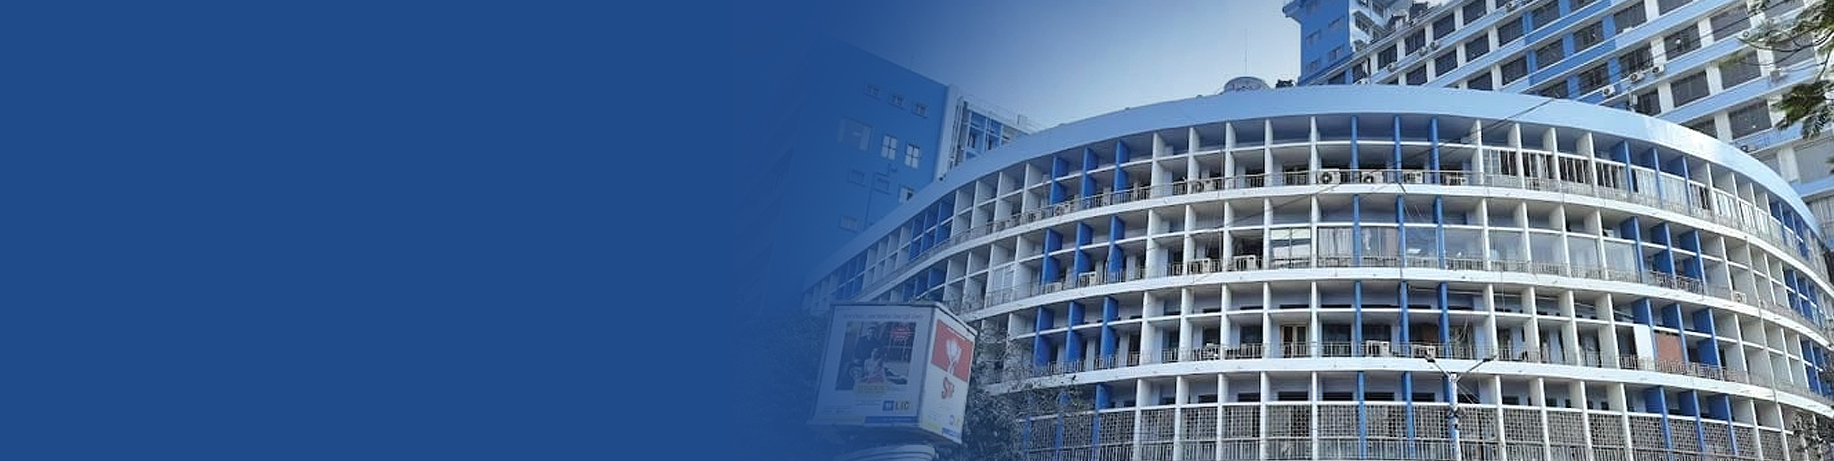
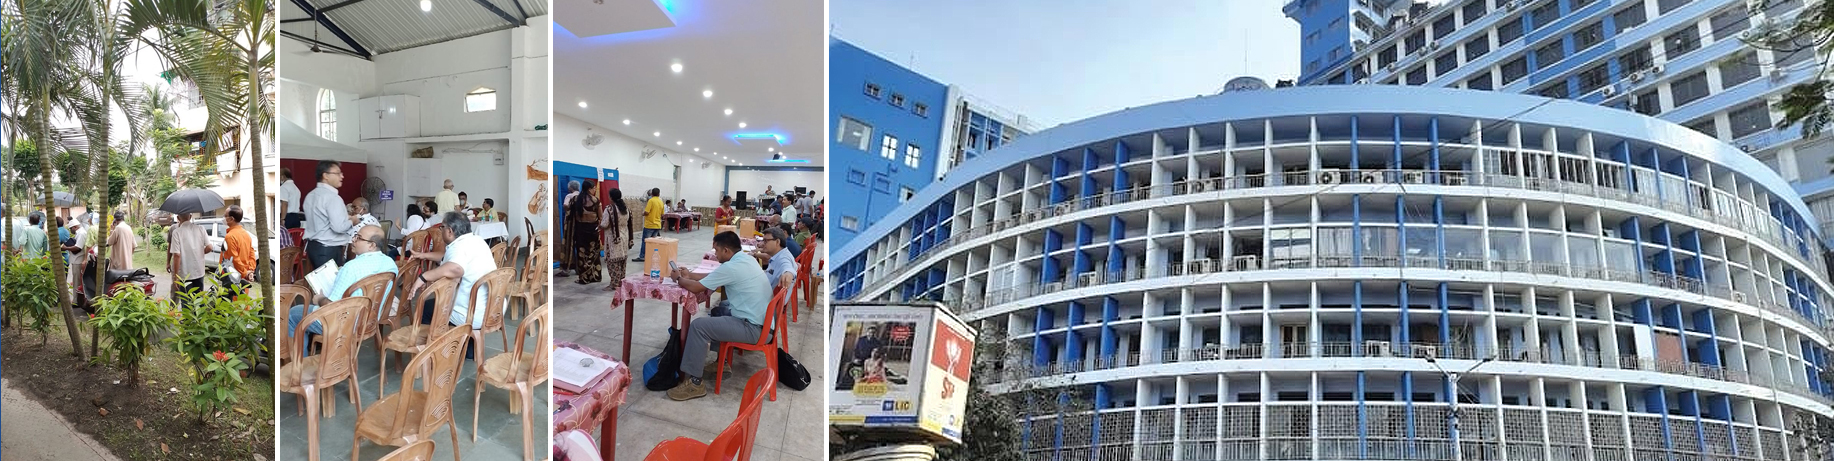
11052026-------

diff --git a/src/Assets/css/apps.css b/src/Assets/css/apps.css
@@ -185,7 +185,8 @@ width: 100%; padding:0;}
 
 
 .bannerSliderMain{width:100%; margin:0; 
-  position:relative; min-height: 500px;
+  position:relative; 
+  /* min-height: 500px; */
   /* background: #d9c8b8 url("../images/banner_main.png") no-repeat right top; display: inline-block; */
   /* background: #d9c8b8 url("../images/banner_img_2.jpg") no-repeat right top; background-size: cover;  */
   display: inline-block;
@@ -199,19 +200,23 @@ width: 100%; padding:0;}
   color: #000; display: none;}
   .left_search_sec.active{background: none;}
 
-.search_box{background: #1F4B8A; padding:20px 0 20px 0; border-radius: 20px; width: 100%; border: #fff solid 3px; display: inline-block;
+.search_box{background: #3D73C1; padding:20px 0 20px 0; border-radius: 20px; width: 100%; border: #fff solid 3px; display: inline-block;
   z-index: 999; position: relative;}
 
-.search_box h2 {font-size: 24px; color: #fff; font-weight: 100; padding-bottom: 8px; border-bottom: #17b0fd solid 1px; position: relative;
+.search_box .search_title{padding: 0 15px; width: 100%;}
+
+.search_box .search_body_sec{padding:0; width: 100%;}
+
+.search_box h2 {font-size: 24px; color: #fff; font-weight: 100; padding-bottom: 8px; border-bottom: #fff solid 1px; position: relative;
 	margin-bottom: 22px;}
-.search_box h2:after {content: ""; width: 33px; height: 3px; background: #17b0fd; position: absolute; right: 0; bottom: 0;}
+.search_box h2:after {content: ""; width: 33px; height: 3px; background: #fff; position: absolute; right: 0; bottom: 0;}
 
 .search_box label{width: 23%;
   display: inline-block; float: left;
   margin-bottom: 0;
   position: relative;
   padding: 0 15px;}
-.search_box label.range_dropdown_cu{width: 100%; display: block; margin-bottom: 25px; position: relative;}
+.search_box label.range_dropdown_cu{width: 23%; display: inline-block; margin-bottom: 0; position: relative;}
 .search_box label.range_dropdown_cu > div.ant-flex{position: absolute;
   right: 26px;
   top: 15px;}
@@ -221,9 +226,10 @@ width: 100%; padding:0;}
 .search_box label .required{color: red;
   font-size: 11px;
   position: absolute;
-  left: 0;
-  top: -22px;
+  left: 15px;
+  top: -19px;
   font-weight: 700;}
+  
 .search_box label.btn{width: 100%; display: block; margin-bottom: 0; padding: 0;}
 .search_box label select{background: #fff;
   font-size: 13px;
@@ -232,20 +238,20 @@ width: 100%; padding:0;}
   padding: 10px 12px;
   width: 100%;
   border-radius: 5px;}
-.search_box label input[type="text"]{background: #fff; font-size: 13px; color: #343535; border: none; padding: 10px 12px; width: 100%; border-radius: 5px;}
+.search_box label input[type="text"]{background: #fff; font-size: 13px; color: #343535; border: none; padding: 9px 12px; width: 100%; border-radius: 5px;}
 .search_box label.searchSec{width: 15%; float: left; padding-right: 10px; margin-bottom: 0;}
-.search_box label.resetSec{width: 15%; float: left; padding-left: 10px; margin-bottom: 0;}
+.search_box label.resetSec{width: 15%; float: left; padding-left: 10px; margin-bottom: 0; padding-right: 0;}
 
 .right_sec .search_box label.searchSec {
-  width: 50%;
+  width: 50% !important;
   float: left;
-  padding-right: 10px; padding-bottom: 0 !important; margin-bottom: 0 !important;
+  padding: 0 15px; padding-bottom: 0 !important; margin-bottom: 0 !important;
 }
 
 .right_sec .search_box label.resetSec {
-  width: 50%;
+  width: 50% !important;
   float: left;
-  padding-left: 10px; padding-bottom: 0 !important; margin-bottom: 0 !important;
+  padding: 0 15px; padding-bottom: 0 !important; margin-bottom: 0 !important;
 }
 
 .right_sec .search_box label.searchSec button[type="submit"] {
@@ -278,7 +284,7 @@ width: 100%; padding:0;}
   font-weight: 700;
   border-radius: 5px;}
 
-.search_box label.resetSec button[type="reset"]{font-size: 16px; color: #fff; background:#cc962f; border: none; padding: 8px 40px; width: 100%;
+.search_box label.resetSec button[type="reset"]{font-size: 16px; color: #fff; background:#0a2746; border: none; padding: 8px 40px; width: 100%;
     font-weight: 700; border-radius: 5px;}
 
 .slider_sec{
@@ -306,19 +312,24 @@ width: 100%; padding:0;}
 .slider_sec_sub h2 span{color: #382616; display: block;}
 .slider_sec_sub p{color: #565656; max-width: 605px;}
 
-.bannerSliderOverlay{position: absolute;
+.bannerSliderOverlay{
+  /* position: absolute; */
   /* height: 461px; */
   left: 0;
   width: 100%;
   top: -1px;}
 
-.bannerSliderMain .bannerSlide_Common{min-height: 510px; width: 100%;}
+.bannerSliderMain .bannerSlide_Common{
+  /* min-height: 510px;  */
+  width: 100%;}
+.bannerSliderMain .bannerSlide_Common img{width: 100% !important;}
+
 .bannerSliderMain .bannerSlide{
-  background: #d9c8b8 url("../images/banner_img_1.jpg") no-repeat right top; background-size: cover;
+  /* background: #d9c8b8 url("../images/banner_img_1.jpg") no-repeat right top; background-size: cover; */
 }
 
 .bannerSliderMain .bannerSlide2{
-  background: #d9c8b8 url("../images/banner_img_2.jpg") no-repeat right top; background-size: cover;
+  /* background: #d9c8b8 url("../images/banner_img_2.jpg") no-repeat right top; background-size: cover; */
 }
 
 .bannerSliderMain .slick-prev.slick-arrow {
@@ -886,13 +897,17 @@ button.viewDetails:focus{outline: none; border: none;}
 
 
 
-.right_sec .search_box{background: #01131f; padding:20px 15px 30px 15px; border-radius: 0; width: 100%; border:none; margin-bottom:16px;}
+.right_sec .search_box{background: #01131f; padding:20px 0 30px 0; border-radius: 0; width: 100%; border:none; margin-bottom:16px;}
 
 .right_sec .search_box h2 {font-size: 24px; color: #fff; font-weight: 100; padding-bottom: 8px; border-bottom: #17b0fd solid 1px; position: relative;
 	margin-bottom: 22px;}
 .right_sec .search_box h2:after {content: ""; width: 33px; height: 3px; background: #17b0fd; position: absolute; right: 0; bottom: 0;}
 
-.right_sec .search_box label{width: 100%; display: block; margin-bottom: 22px;}
+.right_sec .search_box label{width: auto; display: block; margin-bottom: 22px;}
+
+.right_sec .search_box .search_body_sec label{width: 100%; display: block; margin-bottom: 22px;}
+
+
 .right_sec .search_box label.btn{width: 100%; display: block; margin-bottom: 0; padding: 0;}
 .right_sec .search_box label select{background: #fff; font-size: 13px; color: #343535; border: none; padding:13px 12px; width: 100%;}
 .right_sec .search_box label input[type="text"]{background: #fff; font-size: 13px; color: #343535; border: none; padding:13px 12px; width: 100%;}
@@ -1262,25 +1277,31 @@ border-radius: 6px;}
   padding-bottom: 5px;
   border-bottom: #17b0fd solid 1px;
   position: relative;
-  margin: 0 15px 18px 15px;
+  margin: 0 0 18px 0;
 }
 
-.searchPageTop .search_box form{display: flex;
+.searchPageTop .search_box form .search_body_sec{display: flex;
   align-items: center;
 }
 
-.searchPageTop .search_box label{width: 18%;
-  float: left;
-  margin: 0 1%;}
+.searchPageTop .search_box .search_body_sec label{width: 23%;
+  margin: 0;
+  padding: 0 15px;}
 
-.searchPageTop .search_box .radio_button_ranDis{width: 18%;
-  float: left;
-  margin: 0 1%; color: #000;}
-.searchPageTop .search_box .radio_button_ranDis label{width: 50%; display: flex;}
+.searchPageTop .search_box .radio_button_ranDis{
+  width:auto;
+  /* float: left; */
+  margin:0; color: #000;}
+.searchPageTop .search_box .radio_button_ranDis label{width: auto; display: flex;}
 
 
-.searchPageTop .search_box label.searchSec{margin:0 1% 0 0; padding: 0; width: 10%;}
-.searchPageTop .search_box label.resetSec{margin: 0 1% 0 0; padding: 0; width: 10%;}
+.searchPageTop .search_box label.searchSec{margin: 0;
+  padding-right: 10px;
+  width: 15%;}
+.searchPageTop .search_box label.resetSec{margin: 0;
+  padding-left: 10px;
+  width: 15%;
+  padding-right: 0;}
 
 .searchPageTop .search_box label.searchSec button[type="submit"]{font-size: 16px;
   color: #fff;
@@ -1559,9 +1580,10 @@ border-radius: 6px;}
   margin-bottom: 19px;
   box-shadow: 0px 0px 10px 2px #ccc;}
 
-  .radio_button_ranDis{display: flex; align-items: center; color: #fff; padding: 0 15px;}
+  .radio_button_ranDis{color: #fff; padding: 0 15px; float: right; padding-right: 0;}
   .radio_button_ranDis label{margin-bottom: 14px; display: inline-block; width: auto; padding-right: 15px;}
   .radio_button_ranDis label input{margin-right: 6px; width: 30px;}
+  .radio_button_ranDis label:last-child{padding-right: 0;}
 
 
   .radio_button_ranDis label {
@@ -1679,4 +1701,4 @@ border-radius: 6px;}
   border: none !important; box-shadow:none;}
 
   .election_keyMember{width: 100%; text-align: center; padding-top: 40px; padding-bottom: 0;}
-  .election_keyMember img{max-width: 1000px; width: 100%;}
+  .election_keyMember img{max-width: 750px; width: 100%;}

diff --git a/src/Components/SearchBox.js b/src/Components/SearchBox.js
@@ -194,11 +194,13 @@ useEffect(()=>{
  
   return (
     <div className="search_box">
-      <h2>Search</h2>
+      
      {/* {district_def_Valu} */}
       <form onSubmit={formik.handleSubmit}>
         {/* Select District */}
-
+      <div className="search_title"> <h2>Search  
+        
+        
         <div className="radio_button_ranDis">
     <label>
       <input
@@ -206,7 +208,6 @@ useEffect(()=>{
         name="filterOption"
         value="district"
         checked={formik.values.filterOption === "district"}
-        // onChange={formik.handleChange}
         onChange={(e) => {
           setRadioValue(e.target.value)
           console.log(e.target.value, '///////////////////////////////');
@@ -214,7 +215,6 @@ useEffect(()=>{
         }}
   
       />
-      {/* <div className="required">{formik.values.filterOption}</div> */}
       <span class="checkmark"></span>
       District
     </label>
@@ -224,7 +224,6 @@ useEffect(()=>{
         name="filterOption"
         value="range"
         checked={formik.values.filterOption === "range"}
-        // onChange={formik.handleChange}
         onChange={(e) => {
           setRadioValue(e.target.value)
           console.log(e.target.value, 'rrrrrrrrrrrrrr///////////////////////////////');
@@ -236,6 +235,46 @@ useEffect(()=>{
       Range
     </label>
   </div>
+
+        </h2> </div>
+
+
+      {/* <div className="radio_button_ranDis">
+    <label>
+      <input
+        type="radio"
+        name="filterOption"
+        value="district"
+        checked={formik.values.filterOption === "district"}
+        onChange={(e) => {
+          setRadioValue(e.target.value)
+          console.log(e.target.value, '///////////////////////////////');
+          formik.setFieldValue("filterOption", e.target.value); // Update Formik state
+        }}
+  
+      />
+      <span class="checkmark"></span>
+      District
+    </label>
+    <label>
+      <input
+        type="radio"
+        name="filterOption"
+        value="range"
+        checked={formik.values.filterOption === "range"}
+        onChange={(e) => {
+          setRadioValue(e.target.value)
+          console.log(e.target.value, 'rrrrrrrrrrrrrr///////////////////////////////');
+          formik.setFieldValue("filterOption", e.target.value); // Update Formik state
+        }}
+  
+      />
+      <span class="checkmark"></span>
+      Range
+    </label>
+  </div> */}
+
+  <div className="search_body_sec">
 
     {/* Conditional Rendering for Select District */}
     {formik.values.filterOption === "district" && (
@@ -361,6 +400,7 @@ useEffect(()=>{
       setFormValues(initialValues); // Reset state too
     }}>Reset</button></label>
 
+</div>
         
       </form>
     </div>

diff --git a/src/Components/BannerSlider.js b/src/Components/BannerSlider.js
@@ -1,6 +1,9 @@
 import React from 'react'
 import SearchBox from './SearchBox'
 import Slider from "react-slick";
+import banner_1 from "../Assets/images/banner_img_1.jpg";
+import banner_2 from "../Assets/images/banner_img_2.jpg";
+import banner_3 from "../Assets/images/banner_img_3.jpg";
 
 function BannerSlider() {
 
@@ -20,8 +23,9 @@ function BannerSlider() {
     <div className="bannerSliderMain">
 	<div className='bannerSliderOverlay'>
 	<Slider {...settings}>
-	<div className='bannerSlide bannerSlide_Common'></div>
-	<div className='bannerSlide2 bannerSlide_Common'></div>
+	<div className='bannerSlide bannerSlide_Common'><img src={`${banner_1}`} alt=""/></div>
+	<div className='bannerSlide2 bannerSlide_Common'><img src={`${banner_2}`} alt=""/></div>
+	<div className='bannerSlide2 bannerSlide_Common'><a href='/about'><img src={`${banner_3}`} alt=""/></a></div>
 	</Slider>
 	</div>
 	

diff --git a/src/routes/config.js b/src/routes/config.js
@@ -1,6 +1,6 @@
 // export const BASE_URL = "https://wbcec.opentech4u.co.in";
 // export const BASE_URL = "https://admincecwb.opentech4u.co.in";
 
-export const BASE_URL = "http://192.168.1.60:3013";
+// export const BASE_URL = "http://192.168.1.60:3013";
 
-// export const BASE_URL = "https://adminwbcec.wb.gov.in";
+export const BASE_URL = "https://adminwbcec.wb.gov.in";
